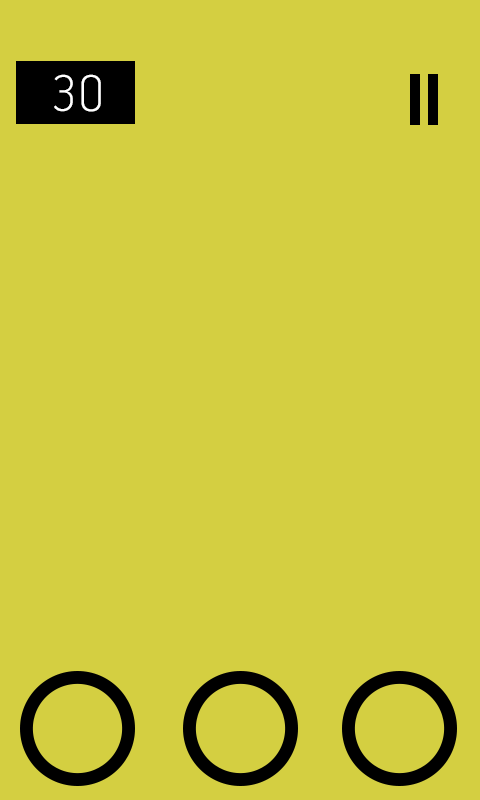
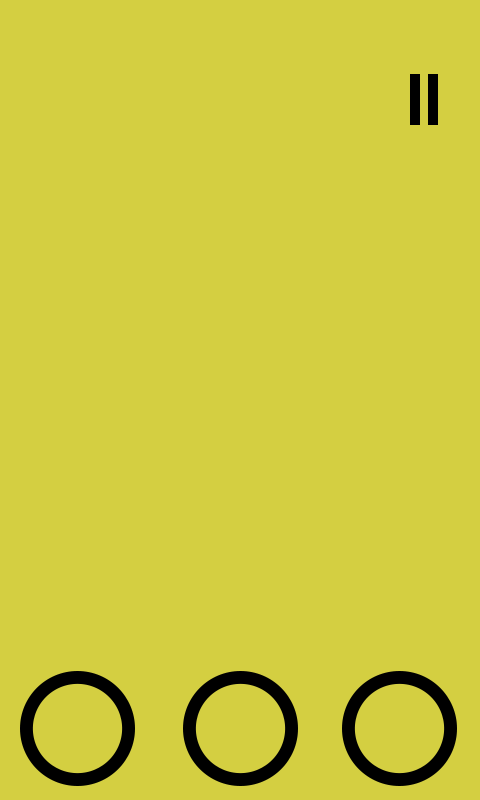
Create counter + added pause menu

Changed region(s): [[0.0312, 0.0625, 0.2812, 0.1562]]

diff --git a/src/states/PlayableState.js b/src/states/PlayableState.js
@@ -2,12 +2,23 @@ class PlayableState extends Phaser.State {
 
     init() {
         this.itemsTab = [];
+        this.counter = 30; //The time before the game end
+        this.gameIsPaused = false;
     }
 
     preload(){
         var that = this;
 
         this.game.add.sprite(0, 0, 'playable-bg');
+
+        //Add the back image of the timer
+        this.timerBack = this.game.add.sprite(10, 75, 'timer-back');
+        this.counterText = this.game.add.text(30, 80, this.counter, { font: "64px Arial", fill: "#ffffff", align: "center" });
+        //this.counterText.anchor.setTo(0.5, 0.5);
+        this.pauseButton = this.game.add.sprite(this.game.world.width-100, 80, 'pause-button');
+        this.pauseButton.inputEnabled = true;
+        this.pauseButton.events.onInputUp.add(this.pauseGame, this);
+
 
         //Create clickable areas
         this.leftInput = new Phaser.Rectangle(0,this.game.height-200,160,this.game.height);
@@ -20,15 +31,18 @@ class PlayableState extends Phaser.State {
 
         //test if we click on part left, center or right
         this.game.input.onDown.add(function(pointer){
-            if(that.leftInput.contains(pointer.x,pointer.y)){
-                console.log('left input');
-                that.destroyObject('left');
-            } else if(that.centerInput.contains(pointer.x,pointer.y)){
-                console.log('center input');
-                that.destroyObject('center');
-            } else if(that.rightInput.contains(pointer.x,pointer.y)){
-                console.log('right input');
-                that.destroyObject('right');
+            //Fire events only when the game is not paused
+            if(!that.gameIsPaused){
+                if(that.leftInput.contains(pointer.x,pointer.y)){
+                    console.log('left input');
+                    that.destroyObject('left');
+                } else if(that.centerInput.contains(pointer.x,pointer.y)){
+                    console.log('center input');
+                    that.destroyObject('center');
+                } else if(that.rightInput.contains(pointer.x,pointer.y)){
+                    console.log('right input');
+                    that.destroyObject('right');
+                }
             }
         });
     }
@@ -46,8 +60,8 @@ class PlayableState extends Phaser.State {
         this.timer2 = this.game.make.sprite(this.game.world.centerX, 200, 'timer-image-2');
         this.timer3 = this.game.make.sprite(this.game.world.centerX, 200, 'timer-image-3');
 
-       // this.launchTimer();
-        this.populateTab();
+        this.launchTimer();
+        //this.populateTab();
     }
 
     //Launch a timer before the game start
@@ -72,12 +86,60 @@ class PlayableState extends Phaser.State {
                 case 4:
                     that.timer1.destroy();
                     clearInterval(that.startTimer);
+                    that.counterBeforeEnd();
                     that.populateTab();
                     break;
             }
 
             that.timerCount+=1;
         }, 1000);
+    }
+
+    /**
+     * Counter before the game end
+     */
+    counterBeforeEnd(){
+        this.game.time.events.loop(Phaser.Timer.SECOND, this.updateCounter, this);
+    }
+
+    /**
+     * Update the counter
+     */
+    updateCounter() {
+        this.counter--;
+        this.counterText.setText(this.counter);
+        if(this.counter == 0){
+            this.game.time.events.stop();
+            
+            //STOP THE GAME HERE
+        }
+    }
+
+
+    pauseGame(){
+        //We pause the game
+        this.gameIsPaused = true;
+        //We stope the counter
+        this.game.time.events.pause();
+
+        //Add pause menu
+        this.pauseMenu = this.game.add.sprite(this.game.world.centerX, this.game.world.centerY, 'pause-menu');
+        this.pauseMenu.anchor.setTo(0.5, 0.5);
+        this.pauseMenu.inputEnabled = true;
+        this.pauseMenu.events.onInputUp.add(this.resumeGame, this);
+
+    }
+
+    resumeGame(){
+        // Remove the menu and the labels
+        this.pauseMenu.destroy();
+        //customLabel.destroy(); //The options in the menu
+
+        //We resume the counter
+        this.game.time.events.resume();
+
+        //Resume the game
+        this.gameIsPaused = false;
     }
 
     //Create the first indexes with random position (left, center or right)
@@ -141,7 +203,13 @@ class PlayableState extends Phaser.State {
             });
 
         }
+
+        //Bring to top this elements - to be above the objects
+        this.timerBack.bringToTop();
+        this.counterText.bringToTop();
+        this.pauseButton.bringToTop();
         console.log(this.itemsTab);
+
     }
 
     createElementToEnd(){

diff --git a/src/states/SplashState.js b/src/states/SplashState.js
@@ -20,9 +20,14 @@ class SplashState extends Phaser.State {
         this.game.load.image('leaderBoard-bg', 'assets/images/leaderBoard-screen.png');
         this.game.load.image('playable-bg', 'assets/images/playable-screen.png');
 
+        this.game.load.image('timer-back', 'assets/images/timer-back.png');
+
         this.game.load.image('timer-image-1', 'assets/images/timer-image-1.png');
         this.game.load.image('timer-image-2', 'assets/images/timer-image-2.png');
         this.game.load.image('timer-image-3', 'assets/images/timer-image-3.png');
+
+        this.game.load.image('pause-menu', 'assets/images/pause-menu.png');
+        this.game.load.image('pause-button', 'assets/images/pause-button.png');
 
         this.game.load.image('panda-image', 'assets/images/panda-image.png');
     }
